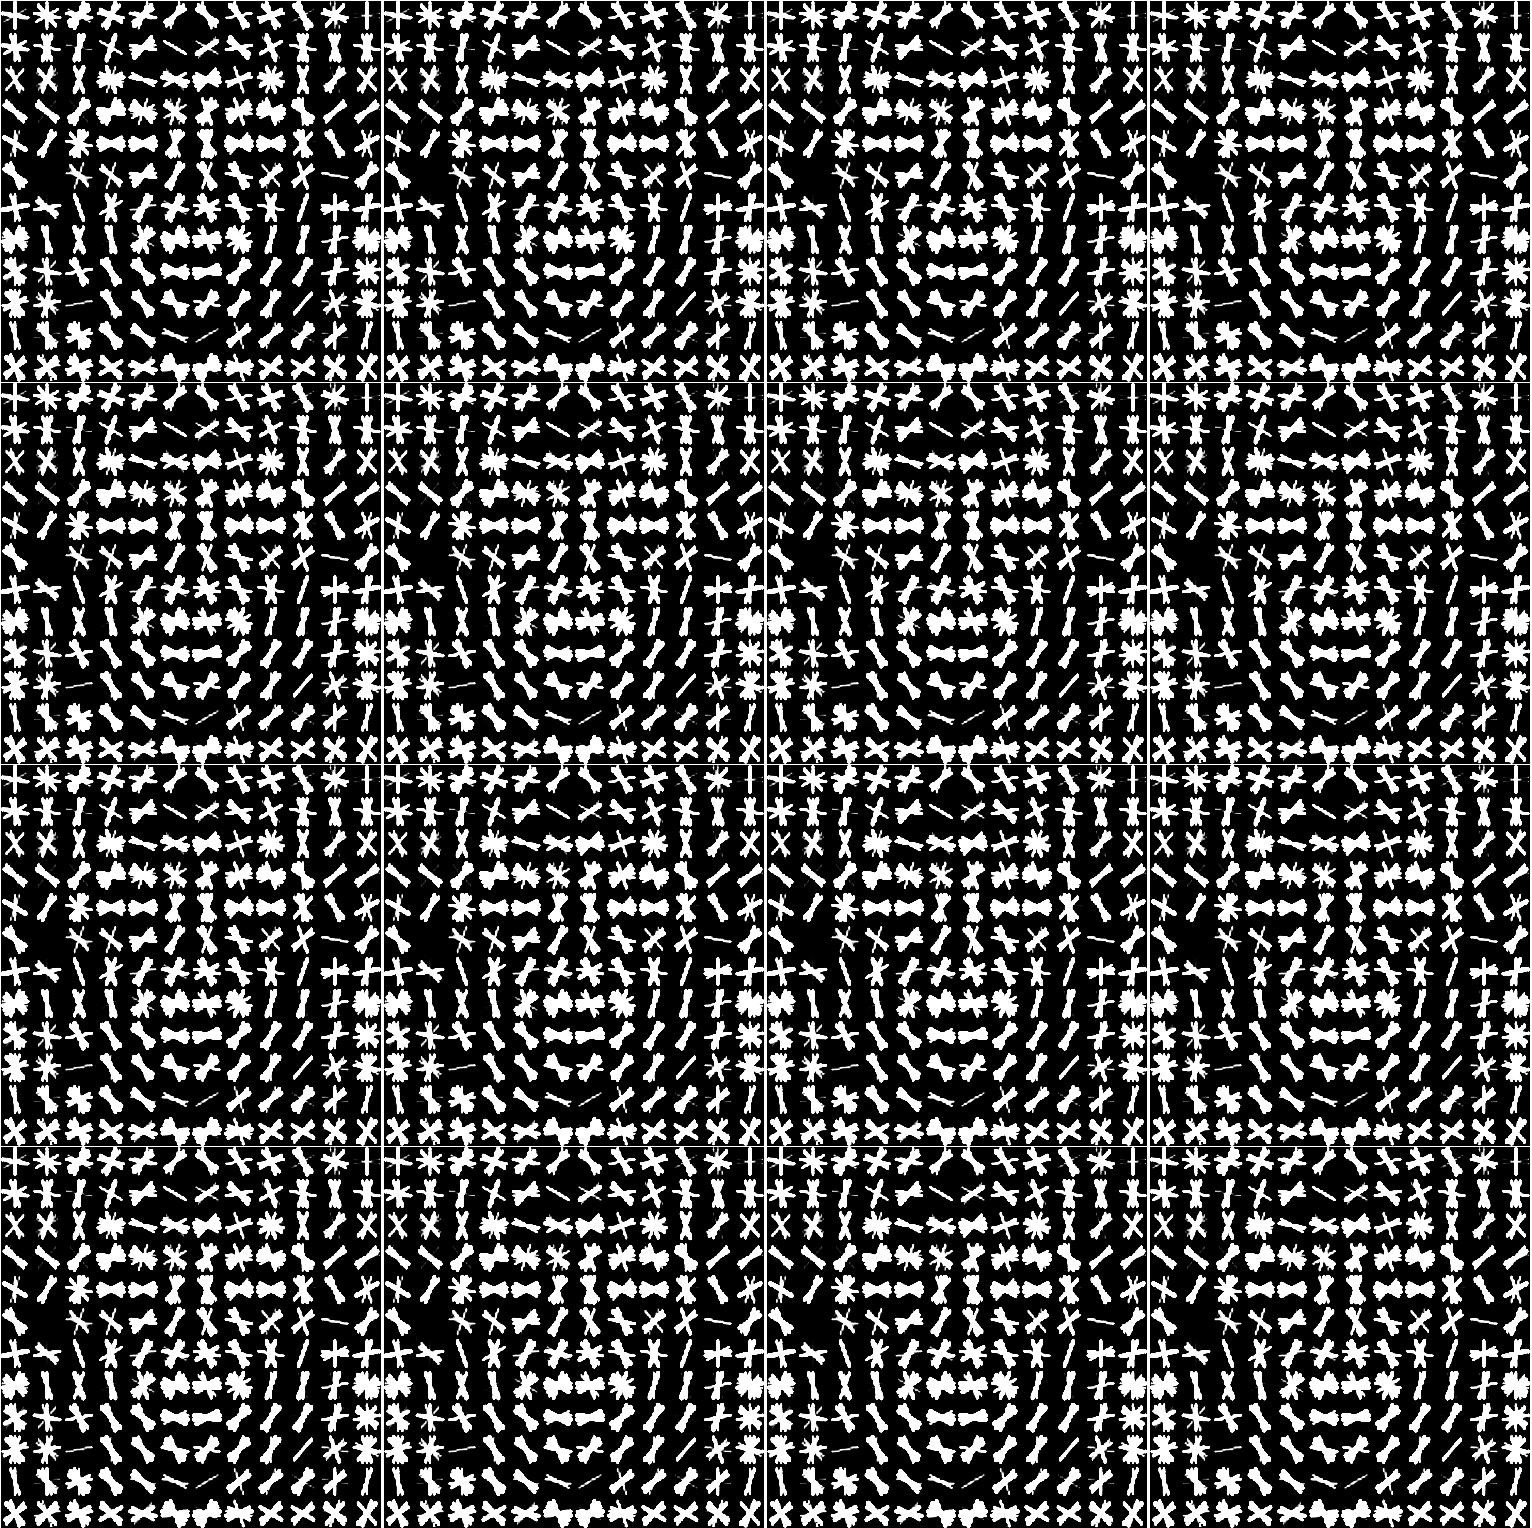
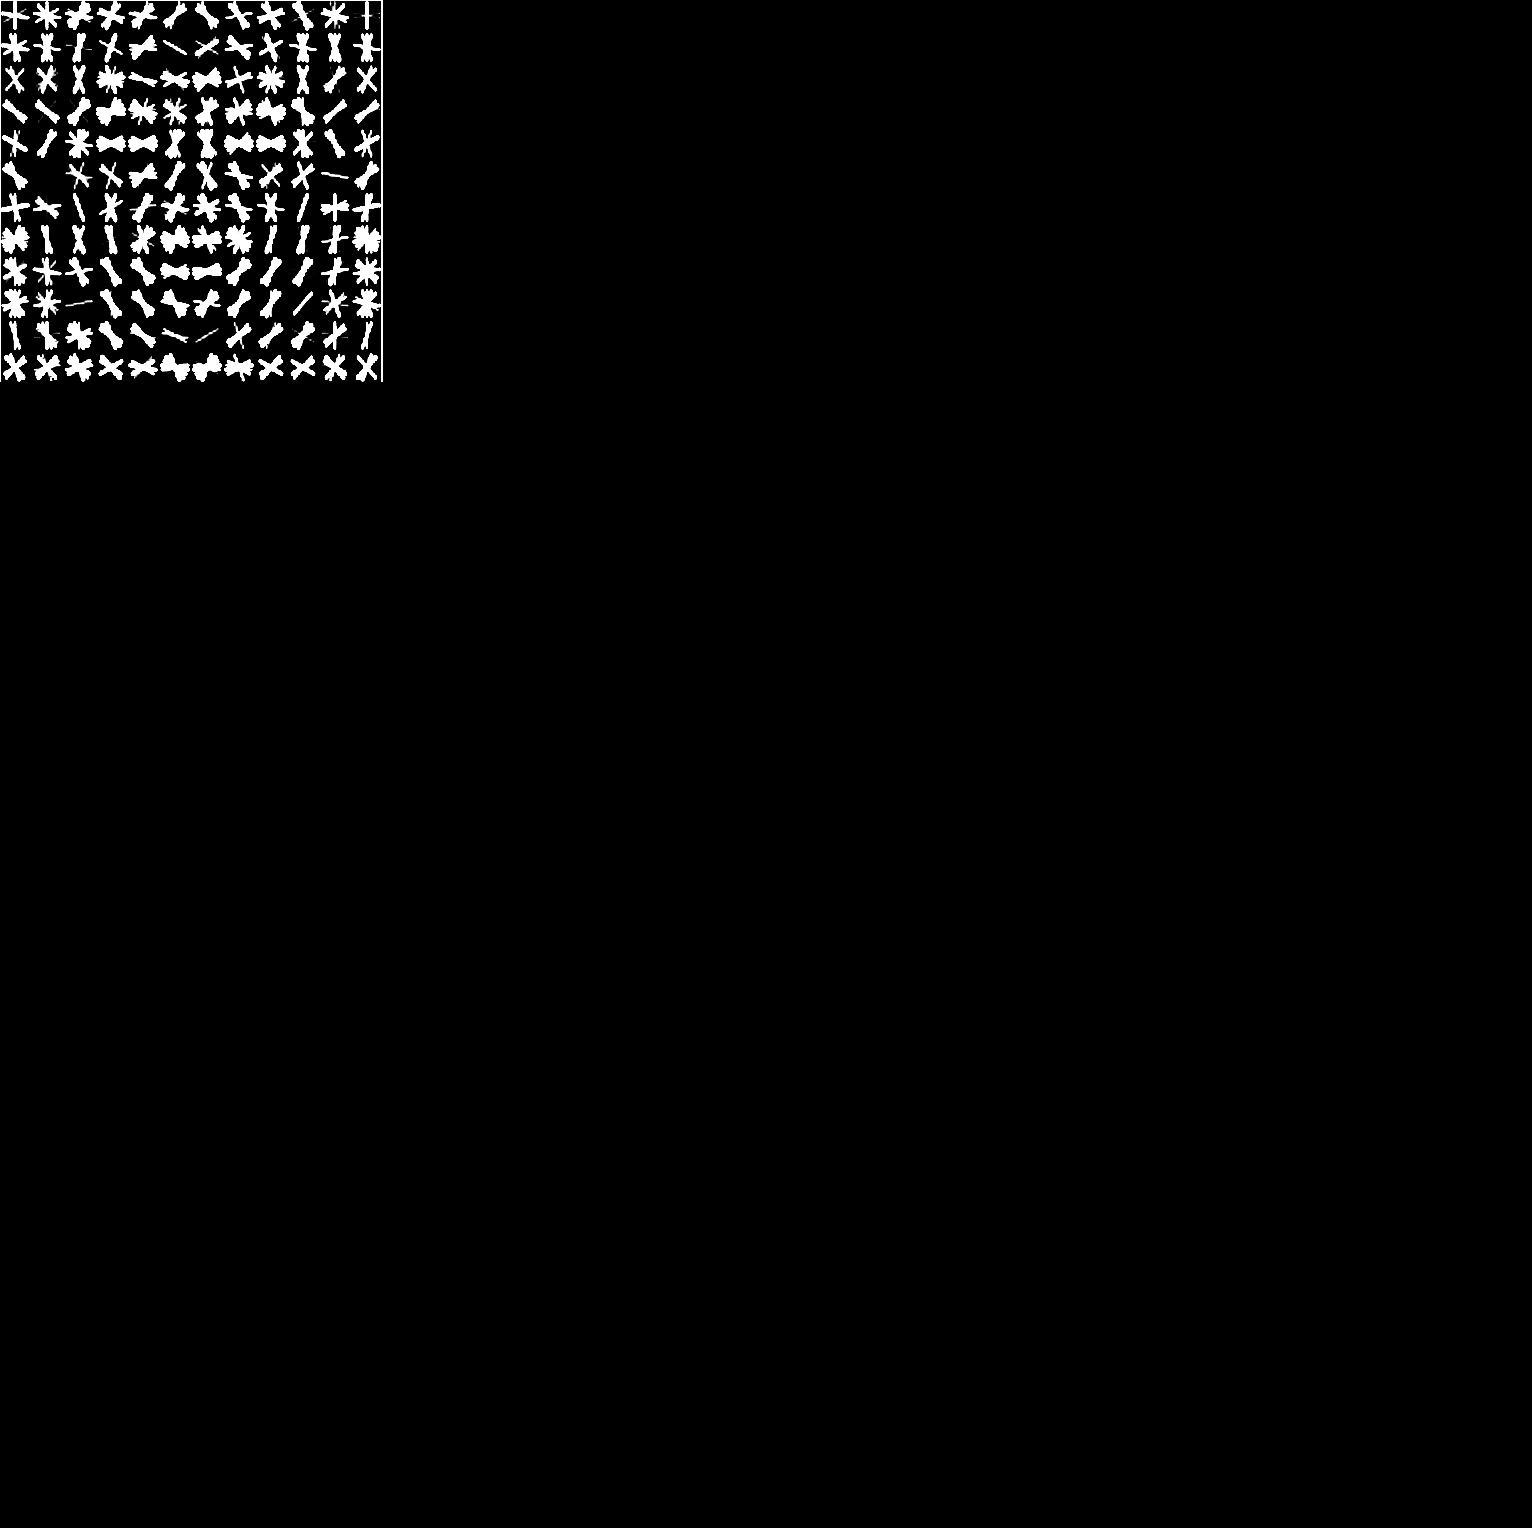
separate face class

Changed region(s): [[0.0, 0.0, 1.0, 1.0]]

diff --git a/image_generation/image_generator.py b/image_generation/image_generator.py
@@ -1,28 +1,26 @@
 import cv2
 from PIL import Image
+from image_generation.HogFace import HOGFace
 from facial_detection.face_detector import detect_faces
 
 OUTPUT_DIR = "../output/"
 OUTPUT_FILE_NAME = "image.png"
 OUTPUT = OUTPUT_DIR + OUTPUT_FILE_NAME
-HOG_FILE = "../data/hog_no_bg.png"
 
-hog_img = Image.open(HOG_FILE)
-width, height = hog_img.size
+# arbitrarily selected as (4*hog_width, 4*hog_height)
+width, height = (1532, 1528)
 
 
-def get_base_img():
-    img = Image.new('RGB', (width * 4, height * 4), (0, 0, 0))
-    return img
+def get_background_img():
+    background = Image.new('RGB', (width, height), (0, 0, 0))
+    return background
 
 
 def main():
-    img = get_base_img()
+    img = get_background_img()
 
-    # fill image
-    for i in range (0, 4):
-        for j in range (0, 4):
-            img.paste(hog_img, (width*i, height*j))
+    hog_img = HOGFace(0, (0, 0), (0, 0, 0))
+    img.paste(hog_img.img, hog_img.position)
 
     img.save(OUTPUT, "PNG")
 

diff --git a/image_generation/HogFace.py b/image_generation/HogFace.py
@@ -1,0 +1,14 @@
+from PIL import Image
+
+
+class HOGFace:
+
+    HOG_FILE = "../data/hog_no_bg.png"
+
+    img = Image.open(HOG_FILE)
+    width, height = img.size
+
+    def __init__(self, rotation, position, color):
+        self.rotation = rotation
+        self.position = position
+        self.color = color
